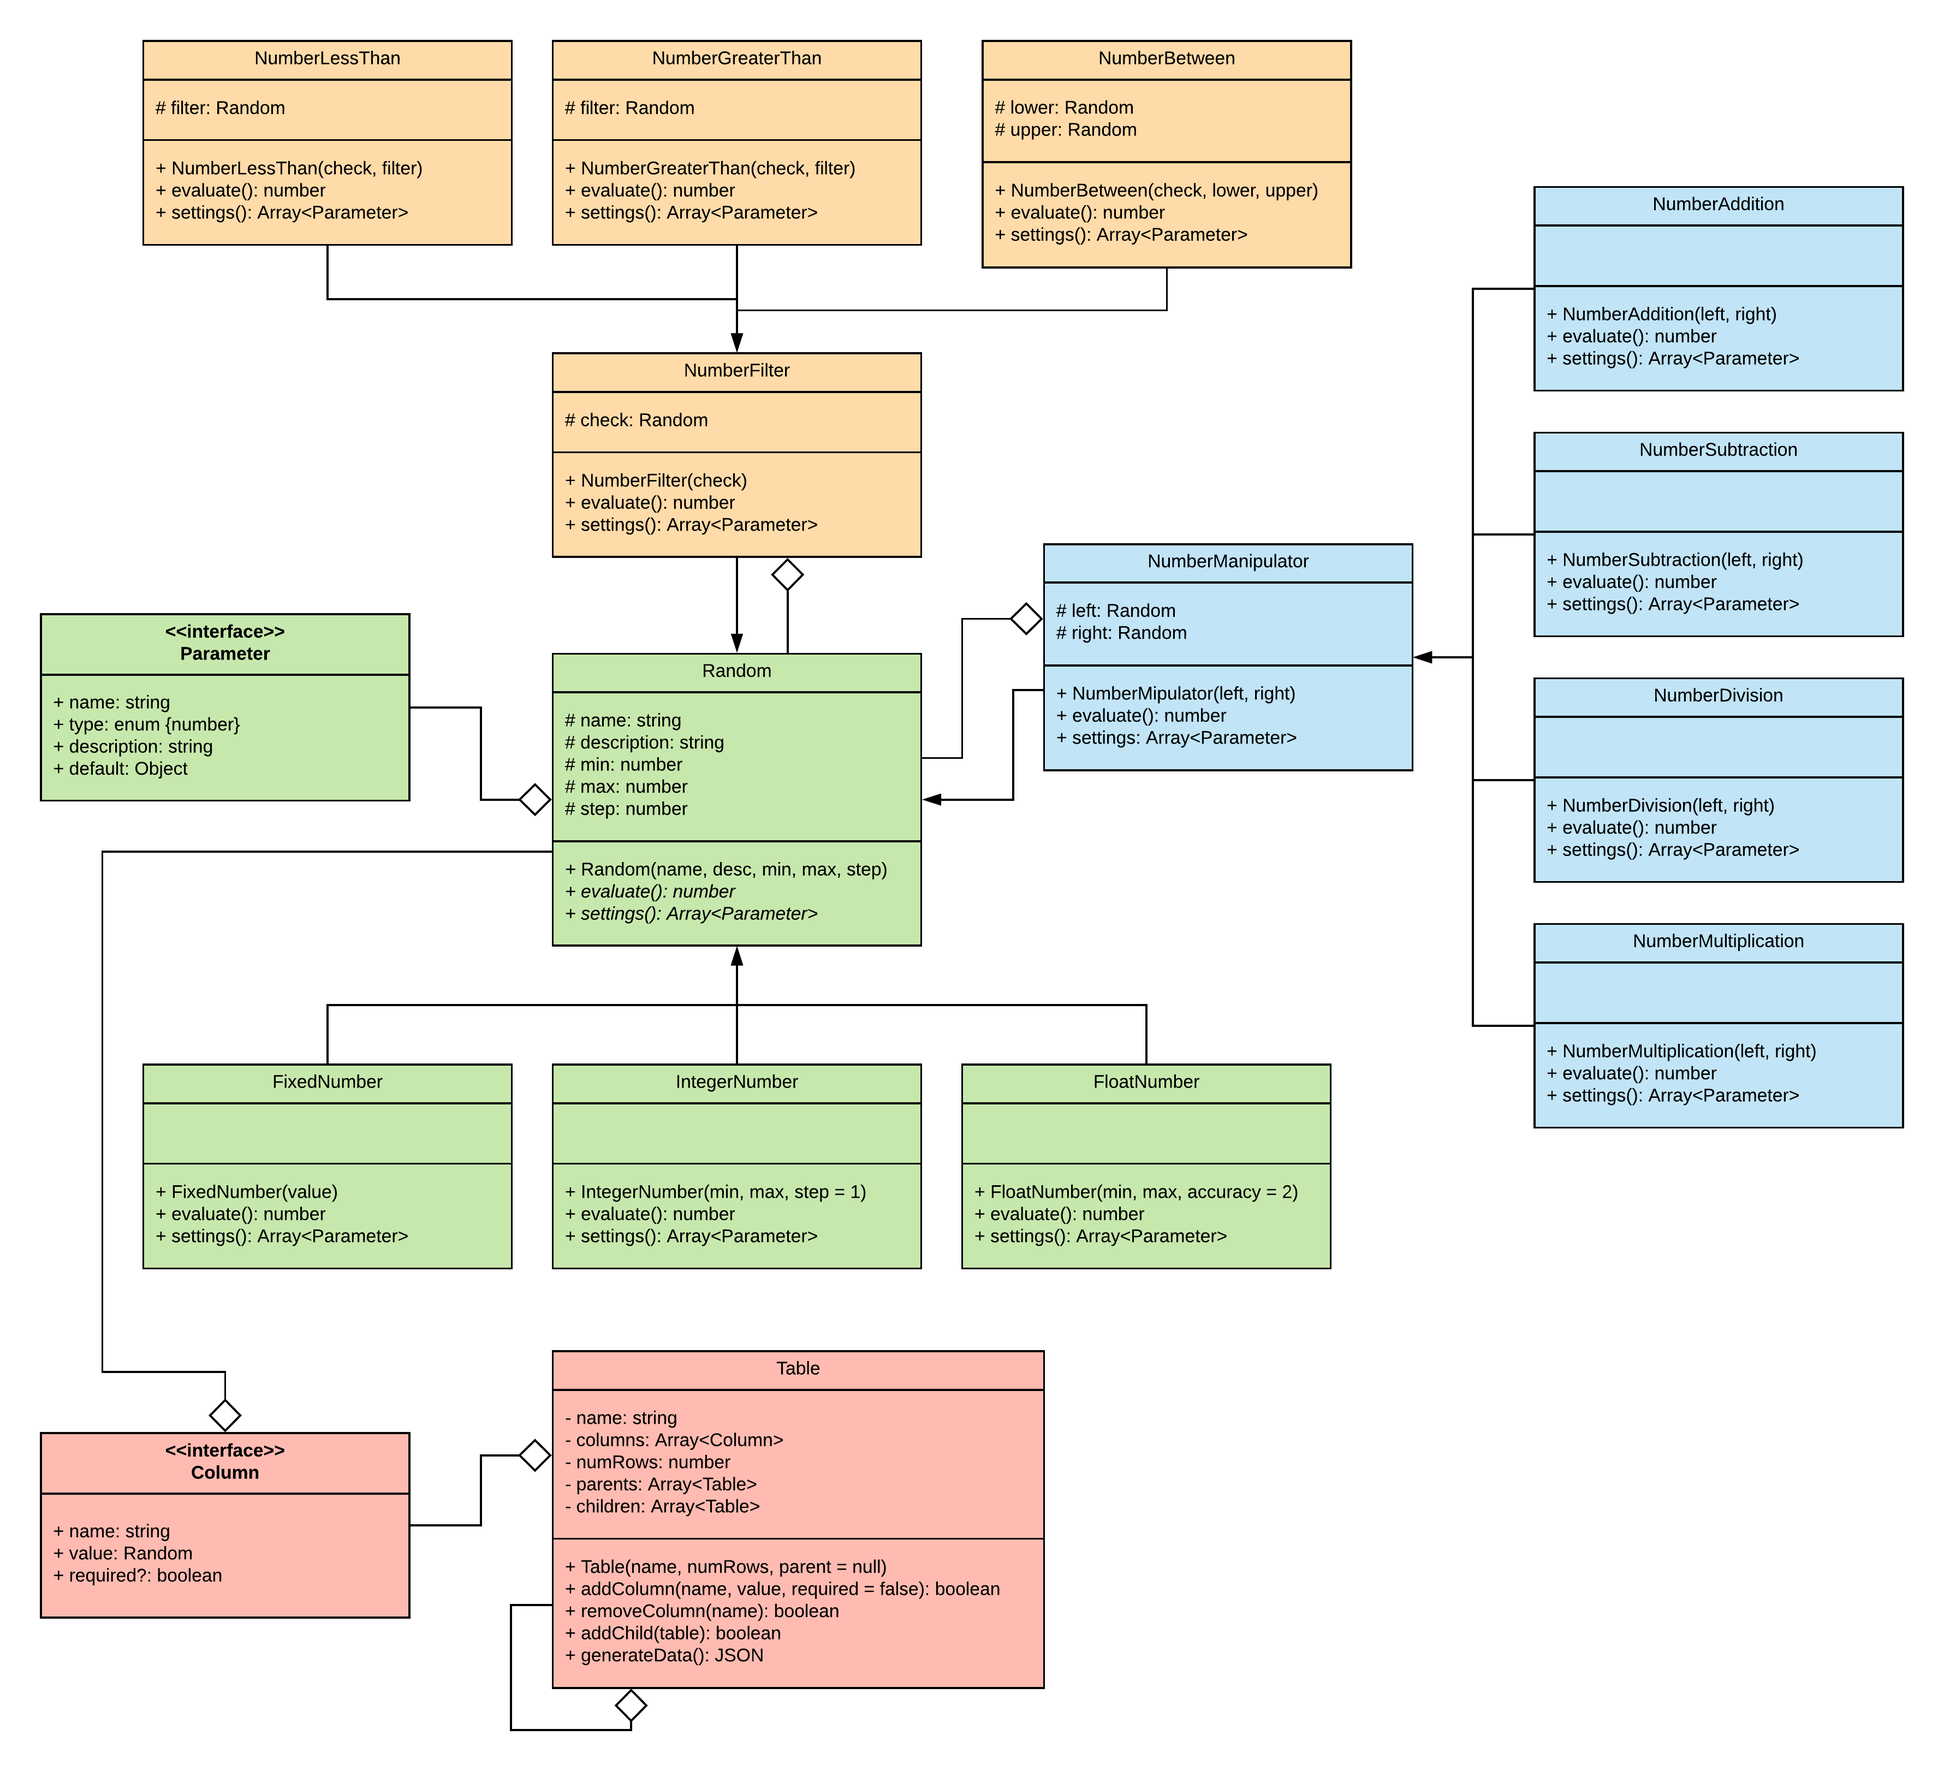
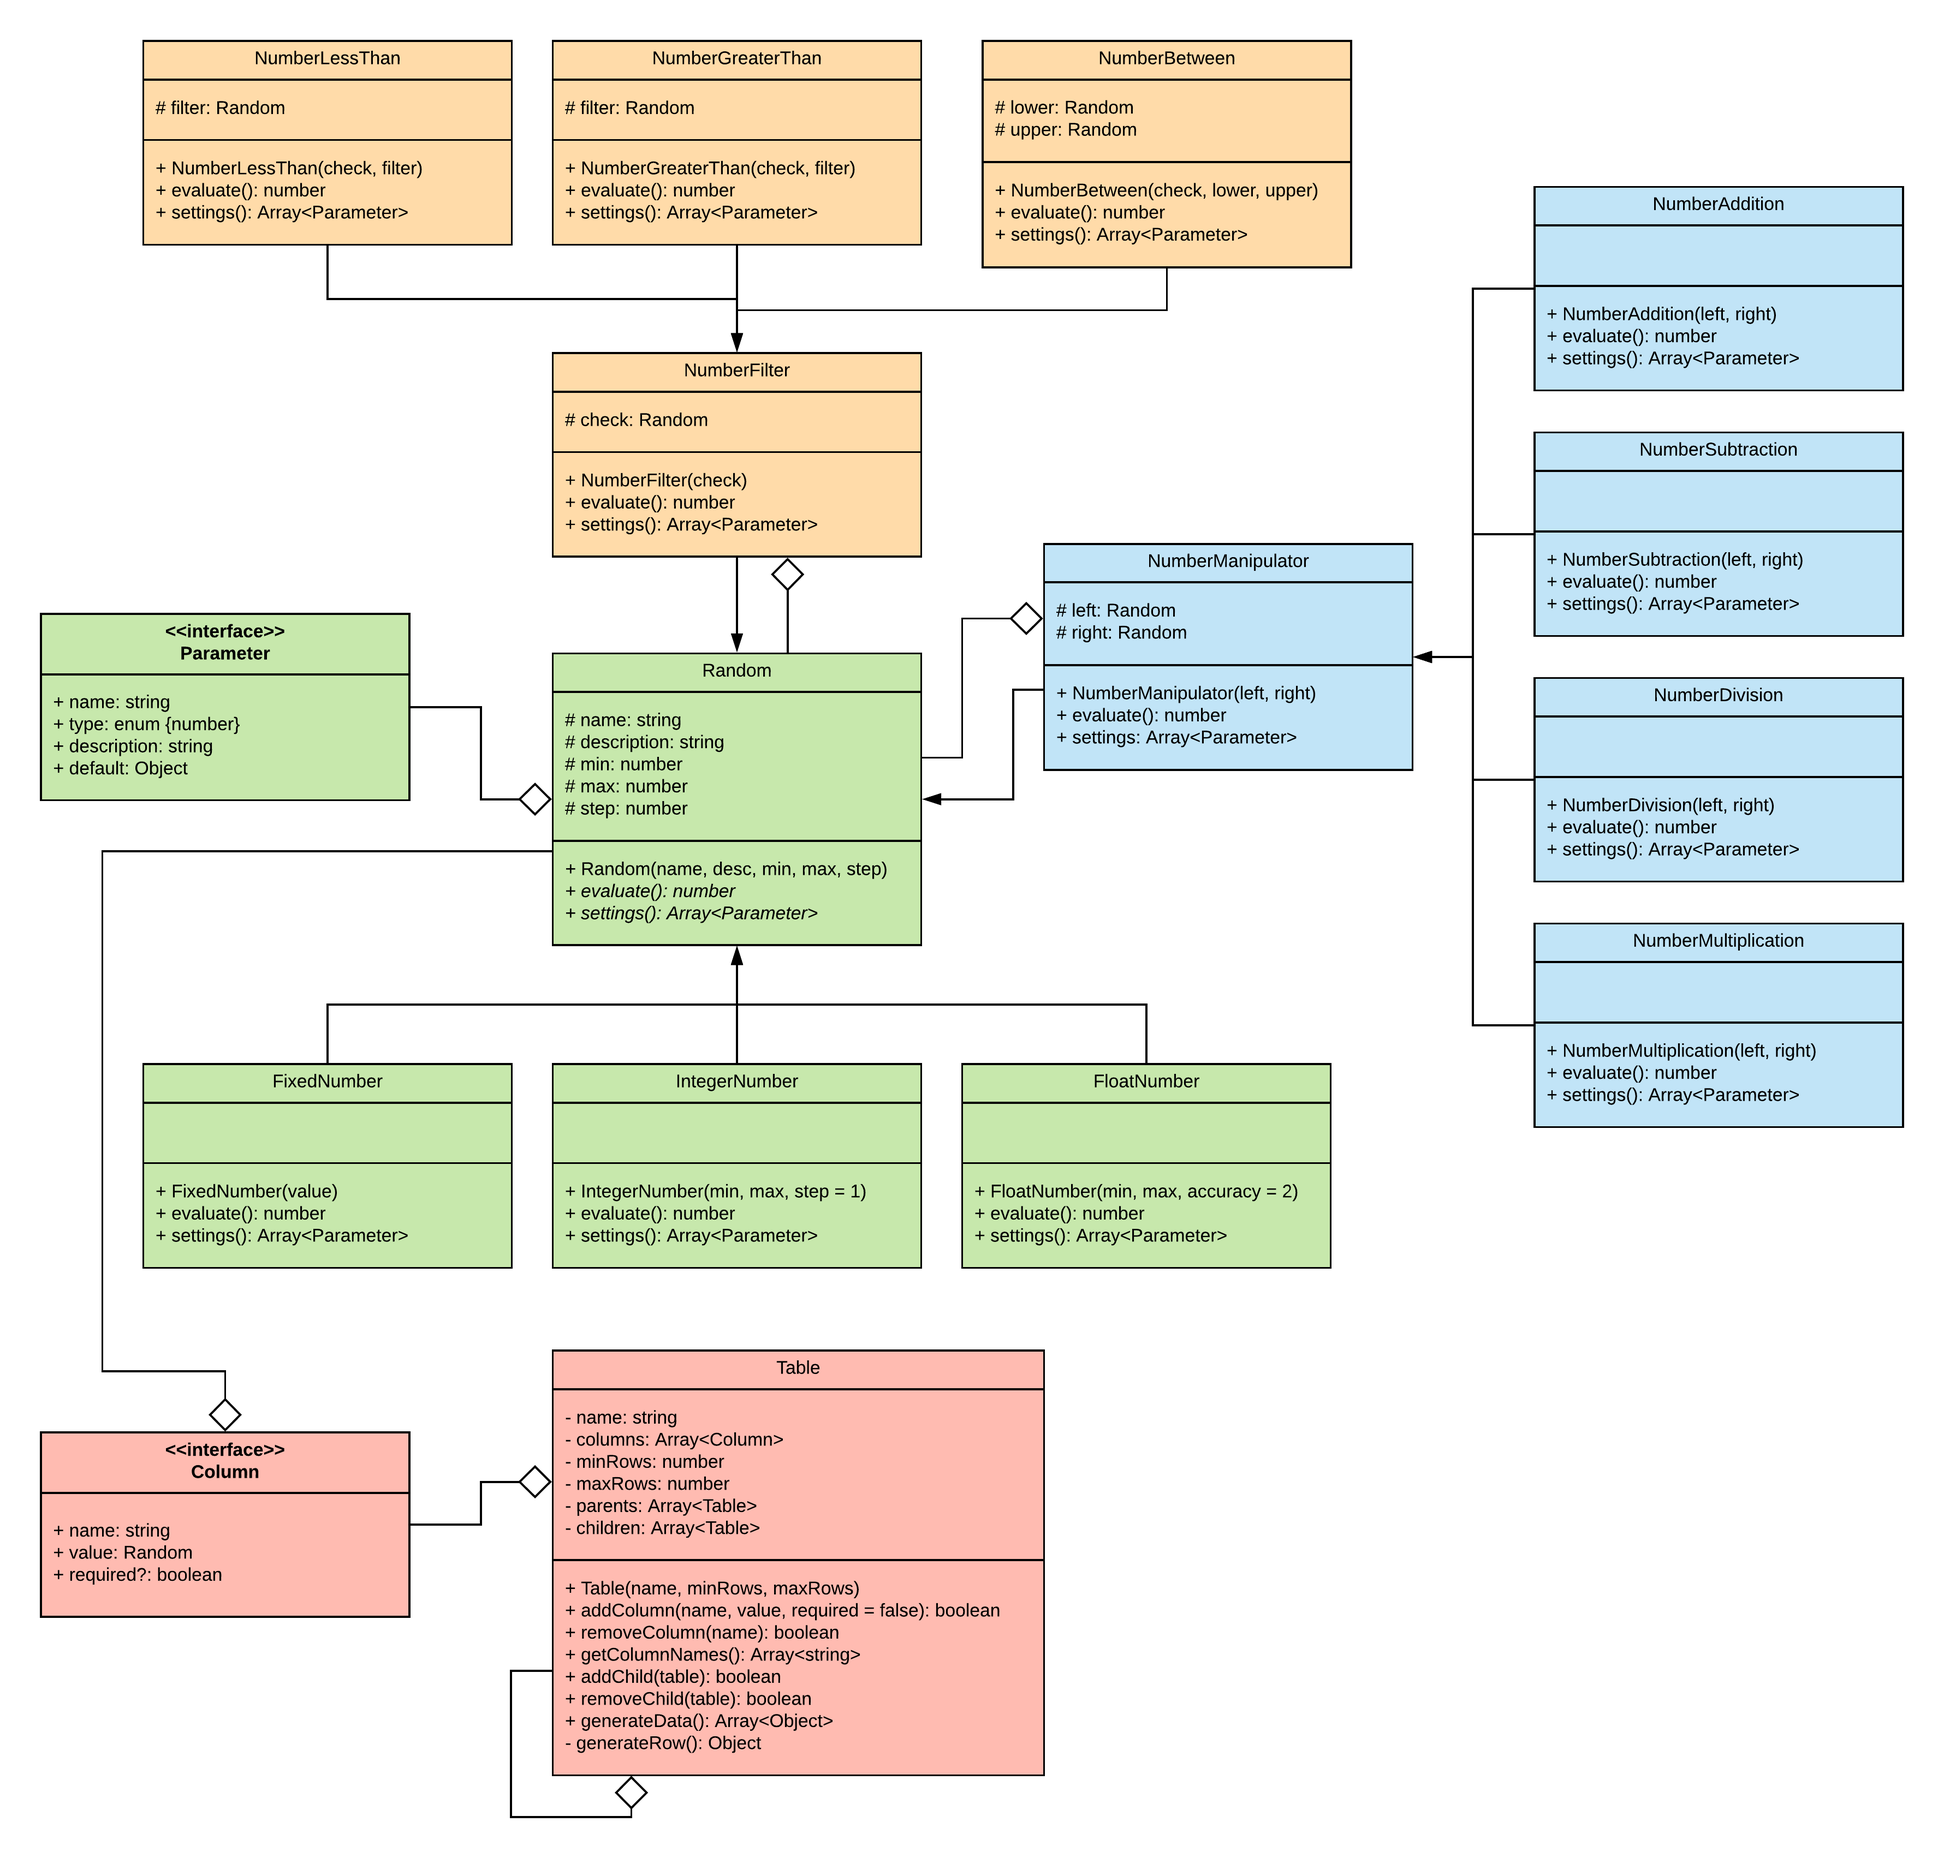
Improved random to allow for it to more easily reach max for small ranges. Created 'Table' class and created tests for its column functions.

diff --git a/src/app/models/table.ts b/src/app/models/table.ts
@@ -1,0 +1,74 @@
+import { Random } from './random';
+import { Column } from '../interfaces/column';
+
+export class Table {
+
+  private columns: Array<Column> = [];
+  private parents: Array<Table> = [];
+  private children: Array<Table> = [];
+
+  constructor(
+    private name: string,
+    private minRows: number,
+    private maxRows: number
+  ) {
+
+  }
+
+  public addColumn(name: string, value: Random, required: boolean = false): boolean {
+    if (this.columns.findIndex(col => col.name == name) >= 0) return false;
+    this.columns.push({name, value, required});
+    return true;
+  }
+
+  public removeColumn(name: string): boolean {
+    let index = this.columns.findIndex(col => col.name == name);
+    if (index < 0) return false;
+    this.columns.splice(index, 1);
+    return true;
+  }
+
+  public getColumnNames(): Array<string> {
+    let names: Array<string> = [];
+    this.columns.forEach(col => {
+      names.push(col.name)
+    });
+    return names;
+  }
+
+  public addChild(child: Table): boolean {
+    if (this.children.findIndex(table => table.name == child.name) >= 0) return false;
+    this.children.push(child);
+    child.parents.push(this);
+    return true;
+  }
+
+  public removeChild(child: Table): boolean {
+    let childIndex = this.children.findIndex(table => table.name == child.name);
+    let parentIndex = child.parents.findIndex(table => table.name == this.name);
+    if (childIndex < 0 || parentIndex < 0) return false;
+    this.children.splice(childIndex, 1);
+    child.parents.splice(parentIndex, 1);
+    return true;
+  }
+
+  public generateData(): Array<Object> {
+    let data: Array<Object> = [];
+    let numRows = Math.floor((Math.random() * (this.maxRows - this.minRows)) + this.minRows);
+    for (let index = 0; index < numRows; index++) {
+      data.push(this.generateRow());
+    }
+    return data;
+  }
+
+  private generateRow(): Object {
+    let row: {[k: string]: Object} = {};
+    this.columns.forEach(col => {
+      row[col.name] = col.value.evaluate()
+    });
+    this.children.forEach(child => {
+      row[child.name] = child.generateData()
+    });
+    return row;
+  }
+}

diff --git a/src/app/models/table.spec.ts b/src/app/models/table.spec.ts
@@ -1,0 +1,56 @@
+import { Table } from './table';
+import { Random } from './random';
+
+describe('Table', () => {
+
+  it('should create an instance', () => {
+    expect(new Table('test', 1, 5)).toBeTruthy();
+  });
+
+  describe('for columns', () => {
+
+    it('should be able to add a new column', () => {
+      let table: Table = new Table('test', 1, 5);
+      table.addColumn('test', new Random('','',1,1,1));
+      expect(table.getColumnNames()).toEqual((['test']));
+    });
+
+    it('should NOT be able to add an existing column', () => {
+      let table: Table = new Table('test', 1, 5);
+      table.addColumn('test', new Random('','',1,1,1));
+      let success = table.addColumn('test', new Random('','',2,2,2));
+      expect(success).toBe(false);
+      expect(table.getColumnNames()).toEqual((['test']));
+    });
+
+    it('should be able to remove a column', () => {
+      let table: Table = new Table('test', 1, 5);
+      table.addColumn('test', new Random('','',1,1,1));
+      let success = table.removeColumn('test');
+      expect(success).toBe(true);
+      expect(table.getColumnNames()).toEqual(([]));
+    });
+
+    it('should NOT be able to remove an unknown column', () => {
+      let table: Table = new Table('test', 1, 5);
+      let success = table.removeColumn('test');
+      expect(success).toBe(false);
+      expect(table.getColumnNames()).toEqual(([]));
+    });
+
+    it('should NOT delete other columns', () => {
+      let table: Table = new Table('test', 1, 5);
+      table.addColumn('test1', new Random('','',1,1,1));
+      table.addColumn('test2', new Random('','',1,1,1));
+      table.addColumn('test3', new Random('','',1,1,1));
+      let success = table.removeColumn('test2');
+      expect(success).toBe(true);
+      table.addColumn('test4', new Random('','',1,1,1));
+      success = table.removeColumn('test2');
+      expect(success).toBe(false);
+      expect(table.getColumnNames()).toEqual((['test1', 'test3', 'test4']));
+    });
+
+  })
+
+});

diff --git a/src/app/app.component.ts b/src/app/app.component.ts
@@ -1,4 +1,6 @@
 import { Component } from '@angular/core';
+import { Table } from './models/table';
+import { Random } from './models/random';
 
 @Component({
   selector: 'app-root',
@@ -7,4 +9,17 @@ import { Component } from '@angular/core';
 })
 export class AppComponent {
   title = 'sdp-gen';
+
+  constructor() {
+    let group: Table = new Table('Group', 5, 10);
+    let demand: Table = new Table('Demand', 2, 5);
+    demand.addColumn('val', new Random('', '', 0, 100, 1));
+    group.addChild(demand);
+    group.addColumn('first', new Random('', '', 10, 50, 5));
+    group.addColumn('second', new Random('', '', 2, 4, 2));
+    demand.addColumn('const', new Random('', '', 8, 8, 1));
+    console.log(group.generateData());
+    group.removeChild(demand);
+    console.log(group.generateData());
+  }
 }

diff --git a/src/app/models/random.ts b/src/app/models/random.ts
@@ -9,15 +9,27 @@ export class Random {
     protected max: number,
     protected step: number
   ) {
-
+    if (step == 0) step = 1;
   }
 
   public evaluate(): number {
     let upper = this.max / this.step;
     let lower = this.min / this.step;
-    let random = Math.floor((Math.random() * (upper - lower)) + lower);
+    let random = Math.round((Math.random() * (upper - lower)) + lower);
     let value = random * this.step;
-    return value;
+
+    // Compensate for rounding and step issues
+    if (value > this.max) {
+      if (this.max % this.step == 0) {
+        return this.max;
+      }
+      else {
+        return value - this.step;
+      }
+    }
+    else {
+      return value;
+    }
   }
 
   public settings(): Array<Parameter> {

diff --git a/src/app/models/random.spec.ts b/src/app/models/random.spec.ts
@@ -24,6 +24,12 @@ describe('Random', () => {
       let rnd: Random = new Random('Random', 'Random number', 0, 100, step );
       for (let index = 0; index < 100; index++) {
         let val = rnd.evaluate();
+        if (val > 100)
+        {
+          expect(val).toBeFalsy();
+          expect(step).toBeFalsy();
+          expect(100 / step).toBeFalsy();
+        }
         if (val < 0 || val > 100 || val % step != 0) {
           success = false;
           break;
